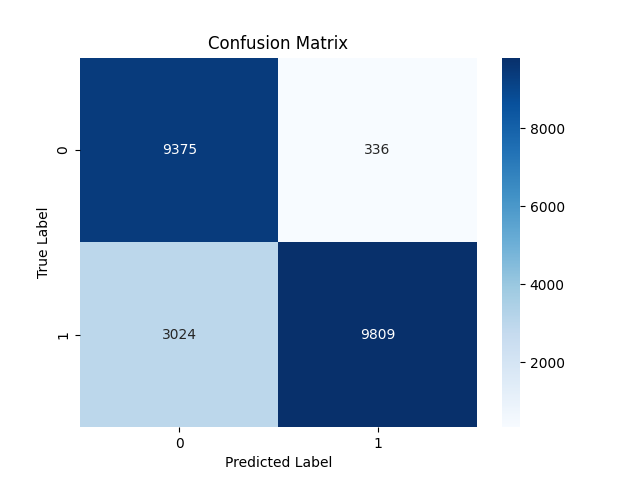
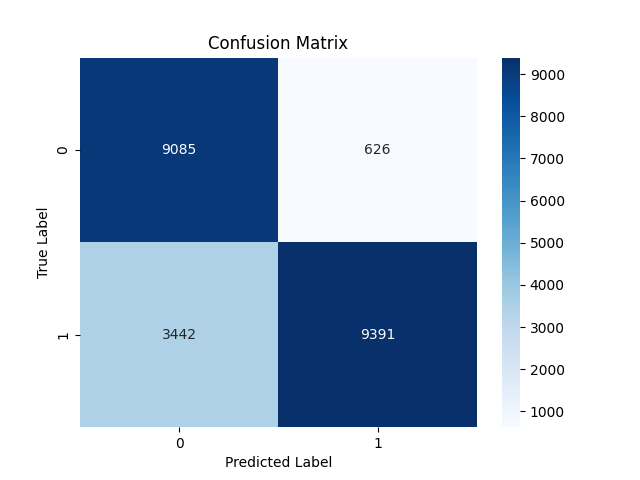
improvised threshold logic

diff --git a/src/evaluation.py b/src/evaluation.py
@@ -29,9 +29,9 @@ def plot_training_history(history):
     plt.xlabel('Epochs')
     plt.ylabel('Loss')
     plt.title('Autoencoder Training and Validation Loss')
+    plt.legend()
     plt.savefig("outputs/plots/training_history.png")
 
-    plt.legend()
     plt.show()
 
 def plot_error_distribution(mse, y_test):
@@ -50,15 +50,19 @@ def plot_error_distribution(mse, y_test):
 
     plt.xlabel("Reconstruction Error")
     plt.title("Error Distribution")
-    plt.savefig("outputs/plots/error_distribution.png")
-    
     plt.legend()
+    plt.savefig("outputs/plots/error_distribution.png")
     plt.show()
 
-def predict_anomalies(mse, percentile=55):
-    threshold = np.percentile(mse, percentile)
+def calculate_threshold(train_mse):
+    mean_error = np.mean(train_mse)
+    std_error = np.std(train_mse)
+    threshold = (mean_error + 3 * std_error)
+    return threshold
+
+def predict_anomalies(mse,threshold):
     y_pred = (mse > threshold).astype(int)
-    return y_pred, threshold
+    return y_pred
 
 def evaluate_model(y_test, y_pred, mse):
     print("Accuracy:", accuracy_score(y_test, y_pred))
@@ -88,8 +92,8 @@ def plot_roc_curve(y_test, mse):
     plt.xlabel('False Positive Rate')
     plt.ylabel('True Positive Rate')
     plt.title('ROC Curve')
-    plt.savefig("outputs/plots/roc_curve.png")
     plt.legend()
+    plt.savefig("outputs/plots/roc_curve.png")
     plt.show()
 
 def plot_pr_curve(y_test, mse):
@@ -120,11 +124,22 @@ def threshold_analysis(mse, y_test):
     for p in threshold_percentiles:
         thresh = np.percentile(mse, p)
         y_predd = (mse > thresh).astype(int)
-        
+
         precisions.append(precision_score(y_test, y_predd))
         recalls.append(recall_score(y_test, y_predd))
         f1_scores.append(f1_score(y_test, y_predd))
-    
+
+    threshold_results = pd.DataFrame({
+        "Threshold Percentile": threshold_percentiles,
+        "Precision": precisions,
+        "Recall": recalls,
+        "F1 Score": f1_scores
+    })
+
+    print(threshold_results.round(4))
+
+    threshold_results.to_csv("outputs/metrics/threshold_analysis.csv",index=False)
+
     plt.figure(figsize=(10, 6)) 
     plt.plot(threshold_percentiles, precisions, label='Precision') 
     plt.plot(threshold_percentiles, recalls, label='Recall') 
@@ -133,6 +148,19 @@ def threshold_analysis(mse, y_test):
     plt.ylabel('Score') 
     plt.title('Threshold Comparison') 
     plt.legend() 
+    plt.savefig("outputs/plots/threshold_analysis.png")
+    plt.show()
+
+def attack_type_analysis(test_df,mse):
+
+    error_df = pd.DataFrame({'label': test_df['label'], 'reconstruction_error': mse})
+    attack_analysis = error_df.groupby('label')['reconstruction_error'].mean()
+    print(attack_analysis.sort_values(ascending=False))
+    attack_analysis.sort_values(ascending=False).plot(kind='bar',figsize=(12, 6))
+    plt.xlabel('Attack Type')
+    plt.ylabel('Average Reconstruction Error')
+    plt.title('Average Reconstruction Error by Attack Type')
+    plt.savefig('outputs/plots/attack_type_analysis.png')
     plt.show()
 
 def save_metrics(y_test, y_pred, mse, threshold):

diff --git a/main.py b/main.py
@@ -1,8 +1,10 @@
 from src.preprocessing import load_data,preprocess_data,scale_data,extract_normal_data
 from src.model import build_autoencoder
 from src.train import train_autoencoder
-from src.evaluation import compute_reconstruction_error,plot_training_history, plot_error_distribution,predict_anomalies,evaluate_model,plot_confusion_matrix,plot_roc_curve,plot_pr_curve,threshold_analysis, save_metrics
+from src.evaluation import compute_reconstruction_error,plot_training_history, plot_error_distribution,predict_anomalies,evaluate_model,plot_confusion_matrix,plot_roc_curve,plot_pr_curve,threshold_analysis, save_metrics, calculate_threshold, attack_type_analysis
 from src.latent_analysis import extract_latent_vectors,reduce_dimensions,perform_clustering,plot_true_labels,plot_clusters,compute_silhouette_scores,plot_silhouette_scores
+import numpy as np
+
 train_df, test_df = load_data(
     "data/raw/KDDTrain+.txt",
     "data/raw/KDDTest+.txt"
@@ -18,39 +20,26 @@ input_dim = X_training_set.shape[1]
 autoencoder, encoder = build_autoencoder(input_dim)
 
 history = train_autoencoder(autoencoder, X_training_set)
+train_reconstructions = autoencoder.predict(X_training_set)
+train_mse = np.mean(np.square(X_training_set - train_reconstructions),axis=1)
 plot_training_history(history)
 reconstructions, mse = compute_reconstruction_error(autoencoder, X_test)
-
+threshold = calculate_threshold(train_mse)
+print("Calculated Threshold:", threshold)
 plot_error_distribution(mse,y_test)
-
-y_pred, threshold = predict_anomalies(mse,percentile=55)
-
+y_pred = predict_anomalies(mse,threshold)
 evaluate_model(y_test, y_pred, mse)
-
 plot_confusion_matrix(y_test,y_pred)
-
 plot_roc_curve(y_test, mse)
-
 plot_pr_curve(y_test,mse)
-
 threshold_analysis(mse,y_test)
-
+attack_type_analysis(test_df,mse)
 latent_vectors = extract_latent_vectors(encoder,X_test)
-
 latent_2d = reduce_dimensions(latent_vectors)
-
 clusters = perform_clustering(latent_vectors,n_clusters=8)
-
 plot_true_labels(latent_2d, test_df)
-
 plot_clusters(latent_2d, clusters)
-
 cluster_range, scores = compute_silhouette_scores(latent_vectors)
-
 plot_silhouette_scores(cluster_range,scores)
-
 save_metrics(y_test, y_pred, mse, threshold)
-
-autoencoder.save(
-    "outputs/models/autoencoder.keras"
-)
+autoencoder.save("outputs/models/autoencoder.keras")
